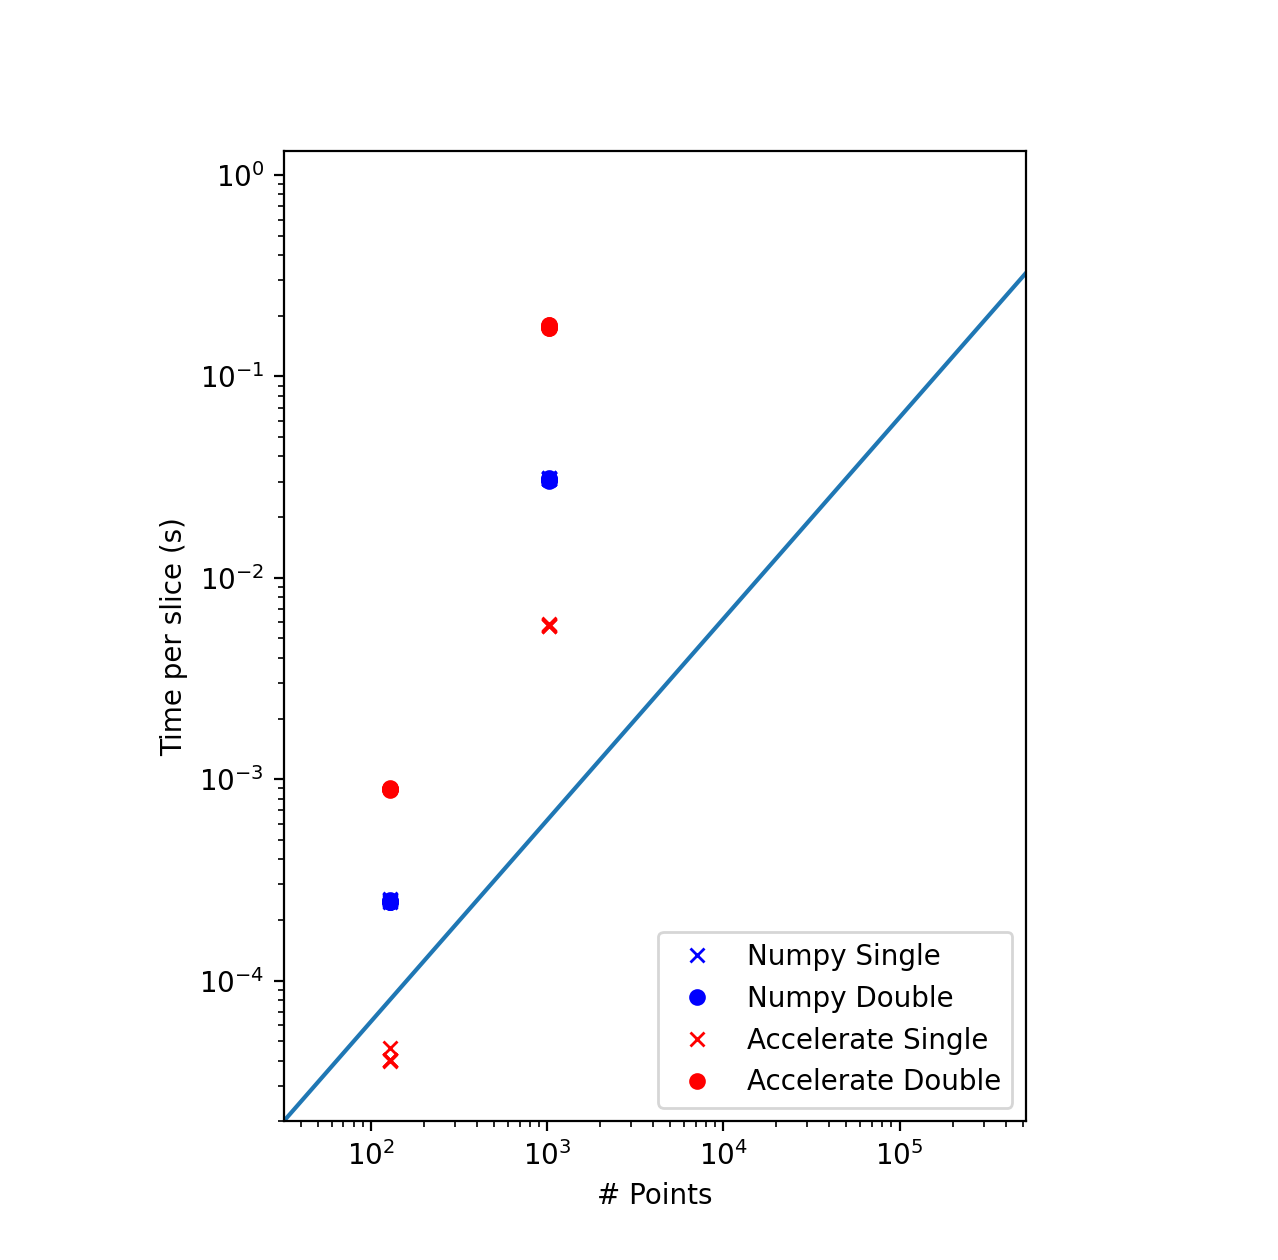
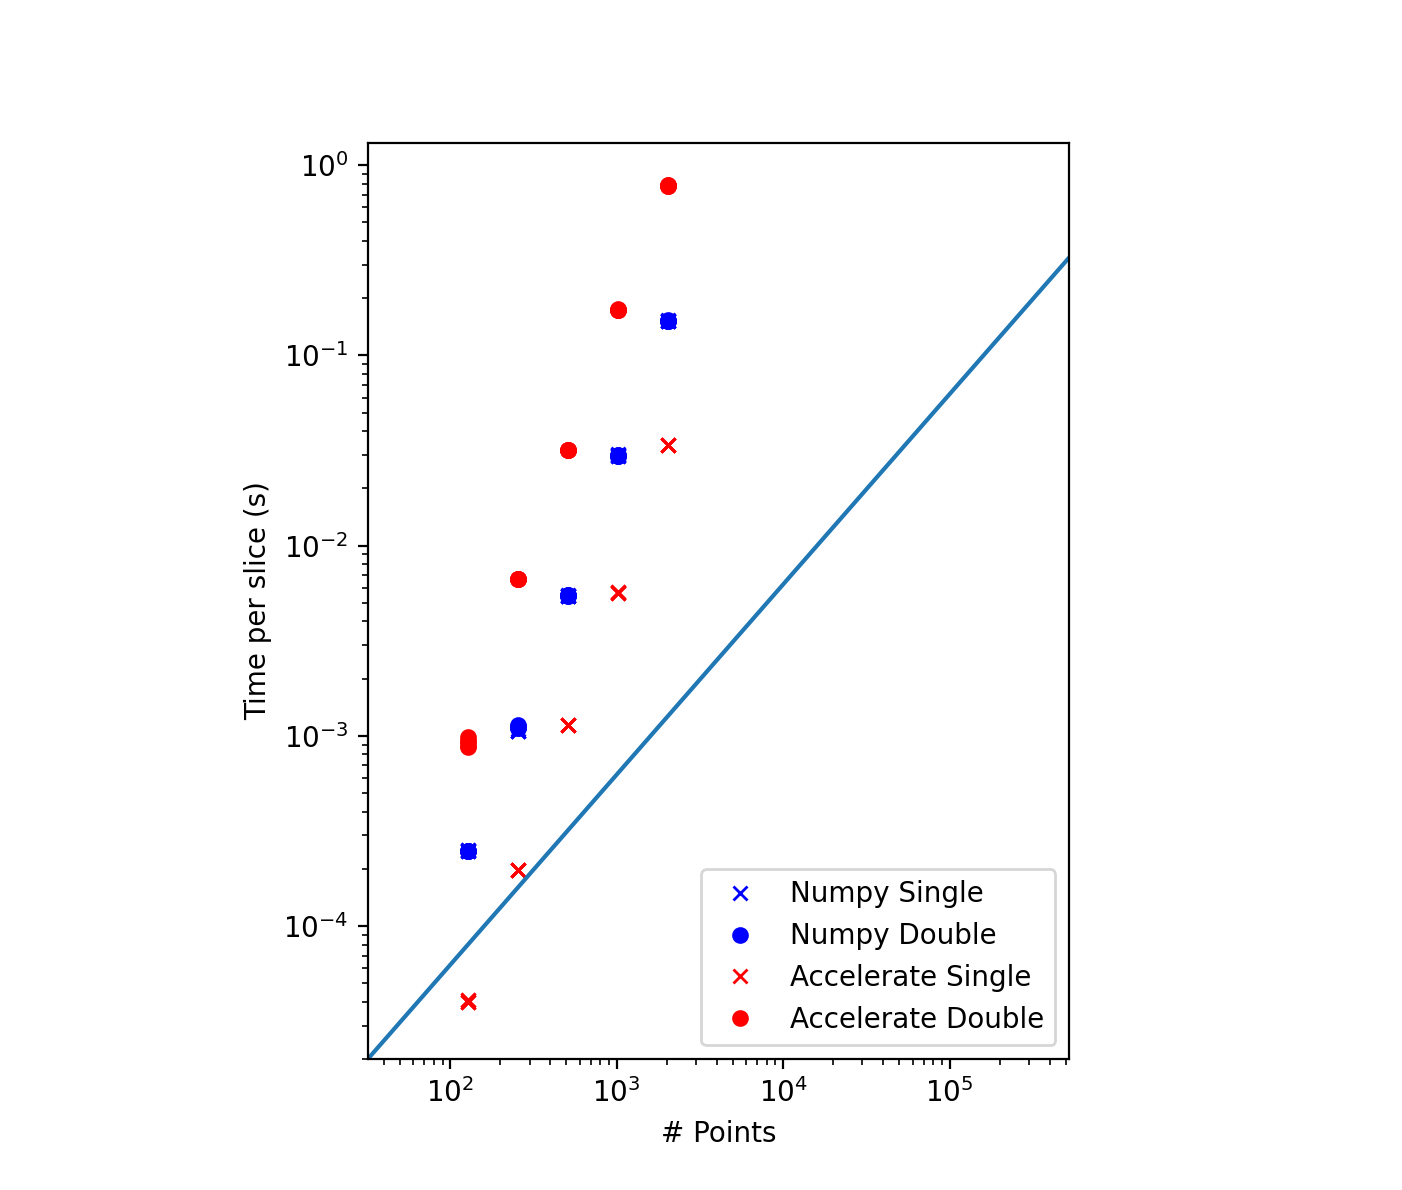
Added threadpoolctl, improvements

diff --git a/fft_bench/main.py b/fft_bench/main.py
@@ -4,8 +4,8 @@ import sys
 import json
 from itertools import product
 
+from threadpoolctl import ThreadpoolController
 import numpy
-
 
 @dataclass(frozen=True)
 class BenchType:
@@ -100,21 +100,30 @@ BENCHES = {
 }
 
 def main(argv=None):
-    for (log2n, n_slices) in product([7, 8, 9, 10, 11, 12], [1, 2, 4, 6]):
-        for ty, bench in BENCHES.items():
-            if ty.backend != 'cuda' and n_slices != 2:
-                continue
-            print(f"{ty.name()} n={'x'.join([str(1 << log2n)] * ty.n_d)} n_slices={n_slices}", file=sys.stderr, flush=True)
+    # limit benchmarks to one thread
+    thread_controller = ThreadpoolController()
+    with thread_controller.limit(limits=1):
+        for (log2n, n_slices, (ty, bench)) in product(range(7, 13), [1, 2, 4, 6], BENCHES.items()):
+            if ty.backend != 'cuda':
+                # n_slices is used for benching memory transfer
+                if n_slices != 2:
+                    continue
+                # prune slow benchmarks
+                if ty.n_d > 1 and log2n > 11:
+                    continue
+
+            # approximately equal runtime for each test
+            # min 10 iterations, max 1000, 100 iterations for 2D 512x512
+            n = int(max(20, min(1000, 2*100 / (n_slices * 2**(1.5*(ty.n_d*log2n - 18))))))
+            total_n = n * n_slices
+
+            print(f"{ty.name()} n={'x'.join([str(1 << log2n)] * ty.n_d)} n_slices={n_slices} n_iter={total_n}", file=sys.stderr, flush=True)
             bench = bench(log2n, n_slices)
-
             timer = timeit.Timer(lambda: bench.run())
-            vec = numpy.array(timer.repeat(repeat=5, number=100 // n_slices))
-            total_n = (100 // n_slices) * n_slices
-
-            times_per_slice = vec / total_n
+            times_per_slice = numpy.array(timer.repeat(repeat=5, number=n)) / total_n
             #print(times_per_slice)
 
-            result = BenchResult(double=ty.double, n_d = ty.n_d, backend=ty.backend, log2n=log2n, n_slices_per_call=n_slices, times=times_per_slice)
+            result = BenchResult(double=ty.double, n_d=ty.n_d, backend=ty.backend, log2n=log2n, n_slices_per_call=n_slices, times=times_per_slice)
             print(result.to_json(), flush=True)
 
 
